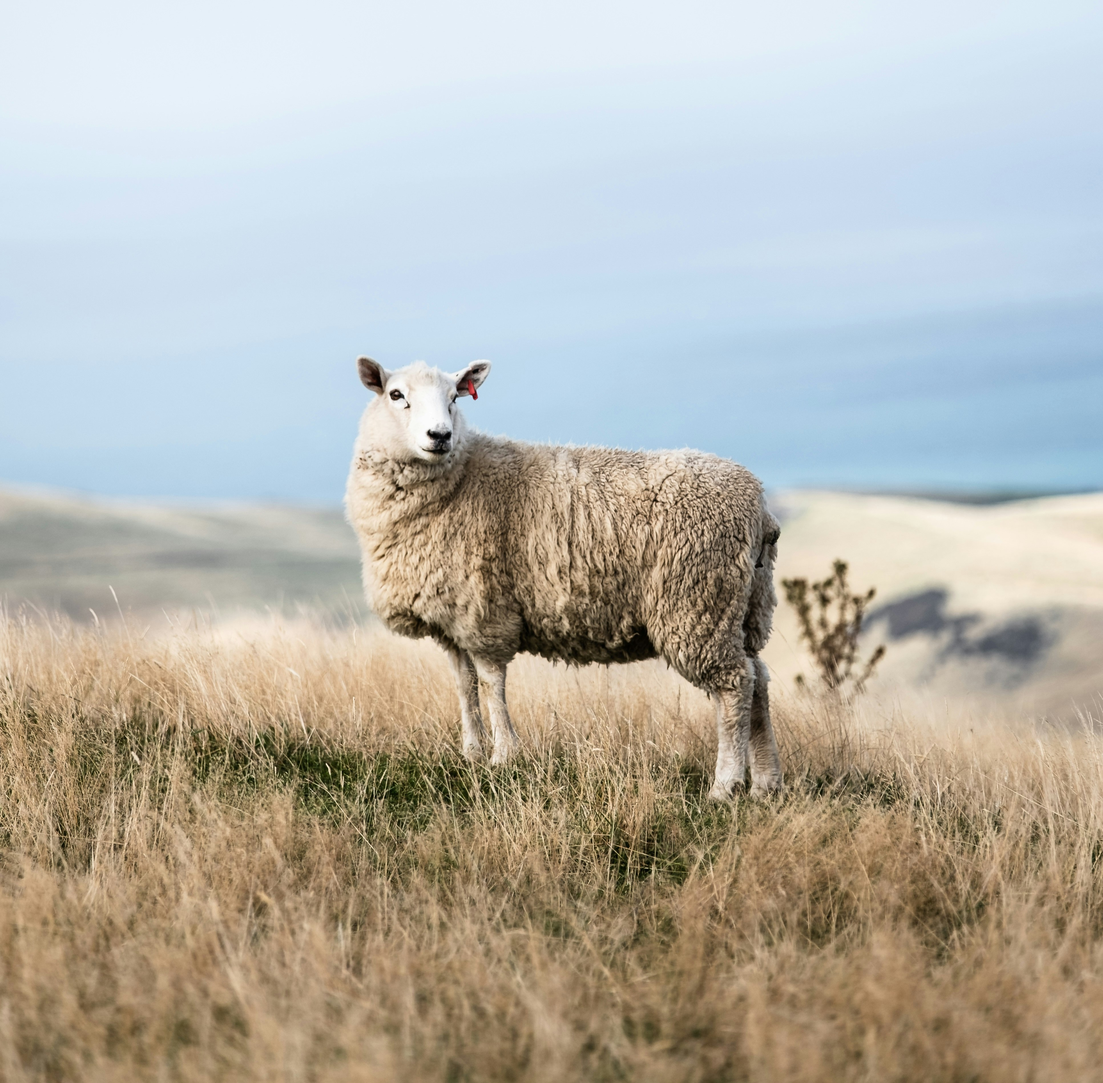
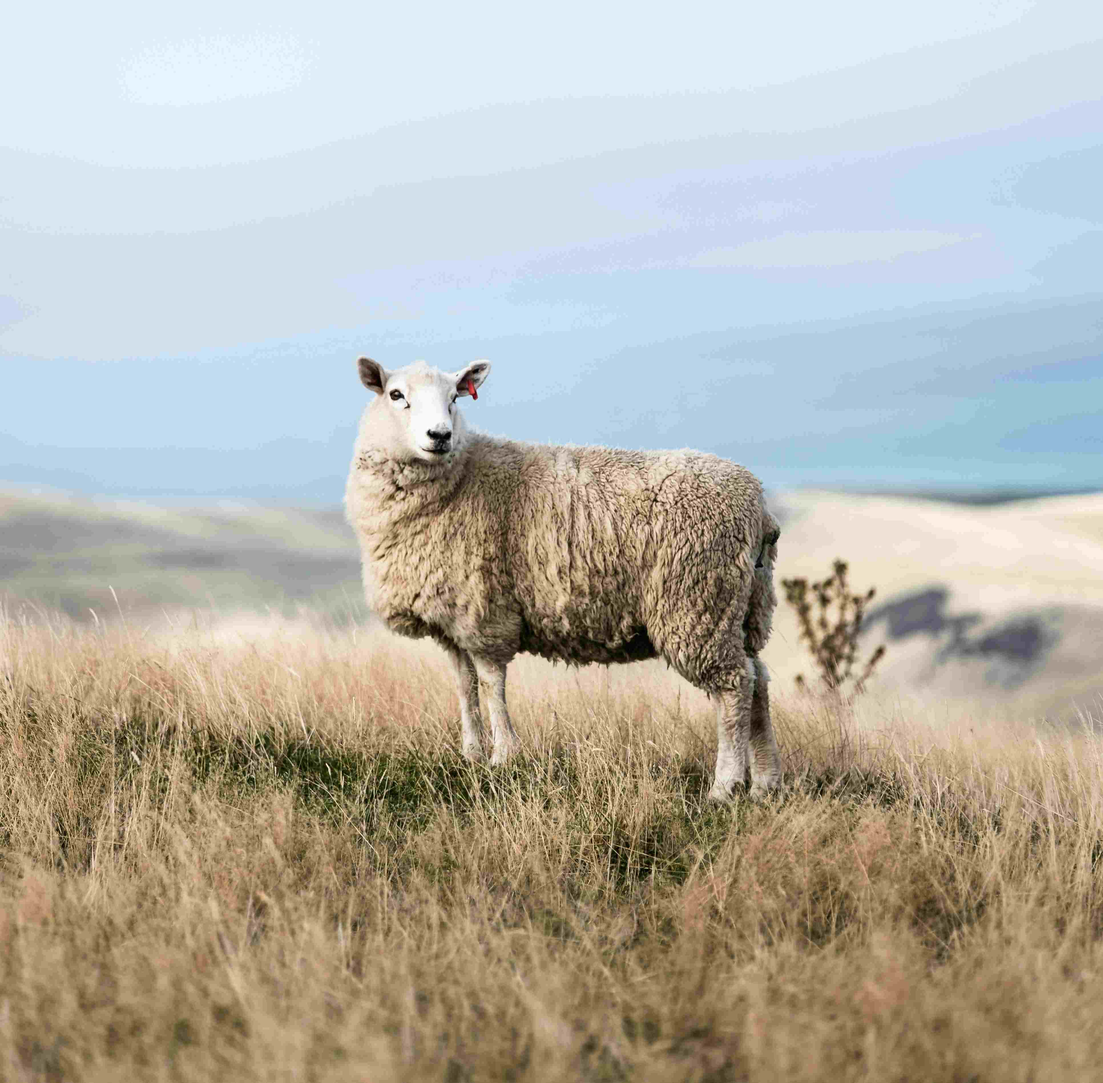
fix the launguage change when reload the page

Changed region(s): [[0.0, 0.653, 0.0931, 0.7773], [0.4036, 0.7152, 0.5589, 0.7773], [0.0, 0.7462, 0.031, 0.7773]]

diff --git a/src/App.tsx b/src/App.tsx
@@ -297,7 +297,7 @@ const products = [
   {
     icon: Warehouse,
     title: 'product_farm',
-    image: `${import.meta.env.VITE_IMAGE_PATH}/cow.jpg`,
+    image: `${import.meta.env.BASE_URL}images/cow.jpg`,
     description: { 
       en: 'Specialized products for farm animals and livestock', 
       ar: 'منتجات متخصصة لحيوانات المزرعة والماشية' 
@@ -318,7 +318,10 @@ const partners = [
 ];
 
 function App() {
-  const [language, setLanguage] = useState<Language>('en');
+  const [language, setLanguage] = useState<Language>(() => {
+    const saved = localStorage.getItem('language');
+    return (saved === 'en' || saved === 'ar') ? saved : 'en';
+  });
   const [isScrolled, setIsScrolled] = useState(false);
   const [isMobileMenuOpen, setIsMobileMenuOpen] = useState(false);
   const [showScrollTop, setShowScrollTop] = useState(false);
@@ -333,7 +336,11 @@ function App() {
 
   // Toggle language
   const toggleLanguage = () => {
-    setLanguage(prev => prev === 'en' ? 'ar' : 'en');
+    setLanguage(prev => {
+      const newLang = prev === 'en' ? 'ar' : 'en';
+      localStorage.setItem('language', newLang);
+      return newLang;
+    });
   };
 
   // Translation helper
@@ -384,12 +391,13 @@ function App() {
           <div className="flex items-center justify-between">
             {/* Logo */}
             <div className="flex items-center space-x-2 rtl:space-x-reverse">
-              <div className="w-10 h-10 bg-gradient-to-br from-blue-500 to-blue-600 rounded-xl flex items-center justify-center shadow-lg">
+              {/* <div className="w-10 h-10 bg-gradient-to-br from-blue-500 to-blue-600 rounded-xl flex items-center justify-center shadow-lg">
                 <Heart className="w-6 h-6 text-white" />
-              </div>
-              <span className={`text-xl font-bold ${isScrolled ? 'text-slate-800' : 'text-white'}`}>
+              </div> */}
+              <img src={isScrolled ? '/favicon.svg' : '/faviconw.svg'} alt="VetMed Logo" className="w-12 h-12 object-contain" />
+              {/* <span className={`text-xl font-bold ${isScrolled ? 'text-slate-800' : 'text-white'}`}>
                 VetMed
-              </span>
+              </span> */}
             </div>
 
             {/* Desktop Navigation */}
@@ -409,7 +417,7 @@ function App() {
               {/* Language Switcher */}
               <button
                 onClick={toggleLanguage}
-                className={`flex items-center space-x-2 px-4 py-2 rounded-lg font-medium transition-all ${
+                className={`mr-7 flex items-center space-x-2 px-4 py-2 rounded-lg font-medium transition-all ${
                   isScrolled 
                     ? 'bg-blue-50 text-blue-600 hover:bg-blue-100' 
                     : 'bg-white/20 text-white hover:bg-white/30'
@@ -472,12 +480,12 @@ function App() {
       <section id="home" className="relative min-h-screen flex items-center justify-center overflow-hidden">
         {/* Background Image with Overlay */}
         <div className="absolute inset-0 z-0">
-          <img 
+          {/* <img 
             src="https://images.unsplash.com/photo-1628009368231-7cc9c2496e07?w=1920&h=1080&fit=crop"
             
             alt="Veterinary clinic"
             className="w-full h-full object-cover"
-          />
+          /> */}
           <div className="absolute inset-0 bg-gradient-to-br from-slate-900/90 via-slate-900/80 to-blue-900/70" />
         </div>
 
@@ -491,7 +499,7 @@ function App() {
           >
             <motion.div variants={fadeInUp}>
               <span className="inline-block px-6 py-2 bg-blue-500/20 backdrop-blur-sm text-blue-300 rounded-full text-sm font-medium border border-blue-400/30">
-                {language === 'en' ? 'Welcome to VetMed Imports' : 'مرحباً بكم في فيتمد إمبورتس'}
+                {language === 'en' ? 'Welcome to AL-Rakiza AL- jadida' : 'مرحباً بكم في الركيزة الجديدة'}
               </span>
             </motion.div>
             
@@ -565,7 +573,7 @@ function App() {
               <div className="relative rounded-3xl overflow-hidden shadow-2xl">
                 <img 
                   // src="https://images.unsplash.com/photo-1576201836106-db1758fd1c97?w=800&h=1000&fit=crop"
-                  src={`${import.meta.env.VITE_IMAGE_PATH}/sheep.jpg`}
+                  src={`${import.meta.env.BASE_URL}images/sheep.jpg`}
                   alt="Veterinary professional"
                   className="w-full h-[500px] object-cover"
                 />
